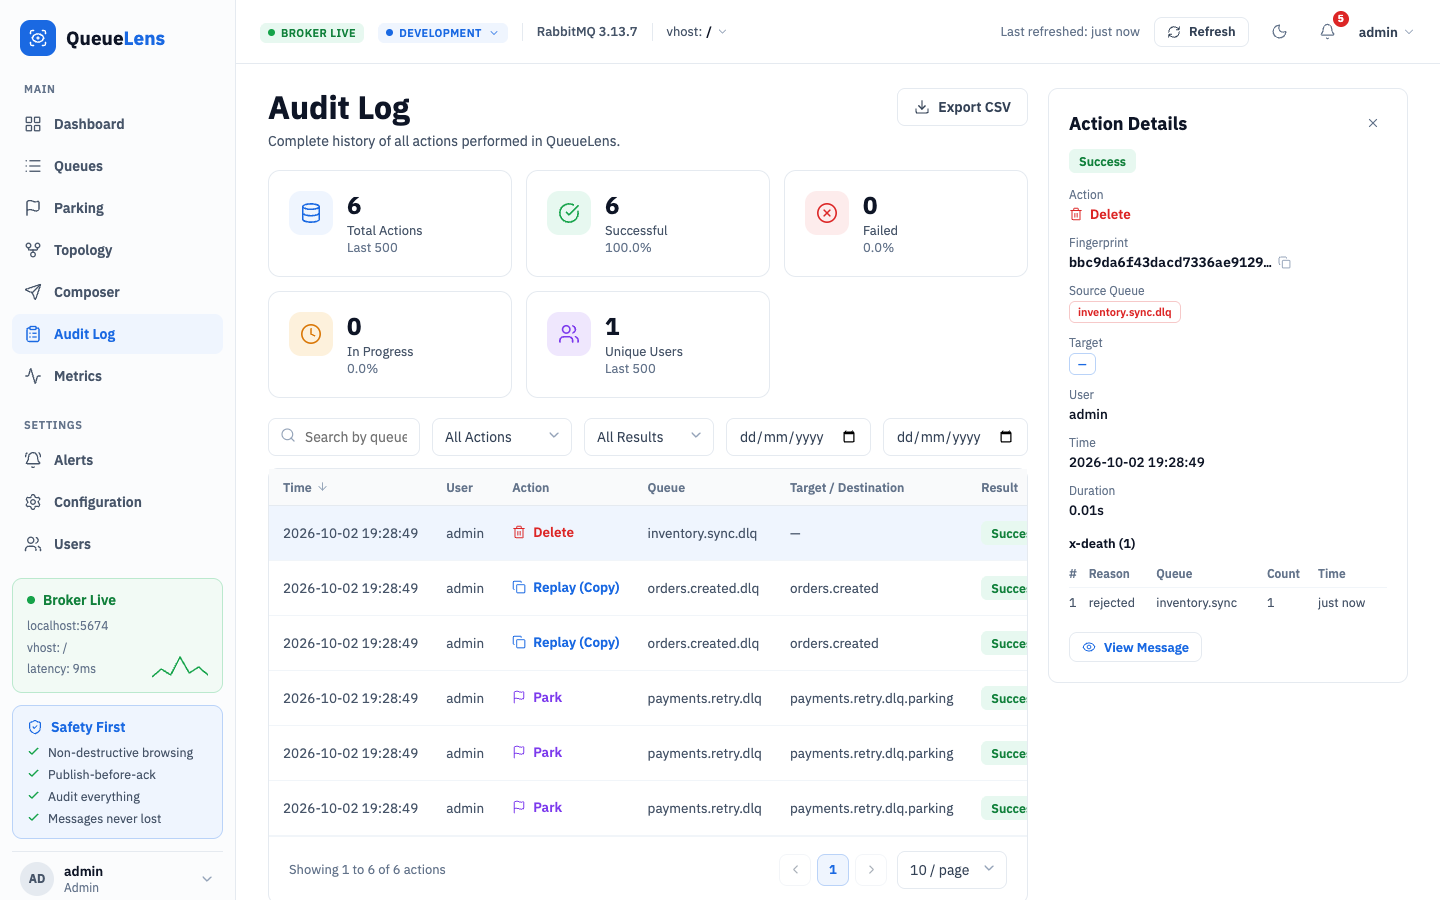
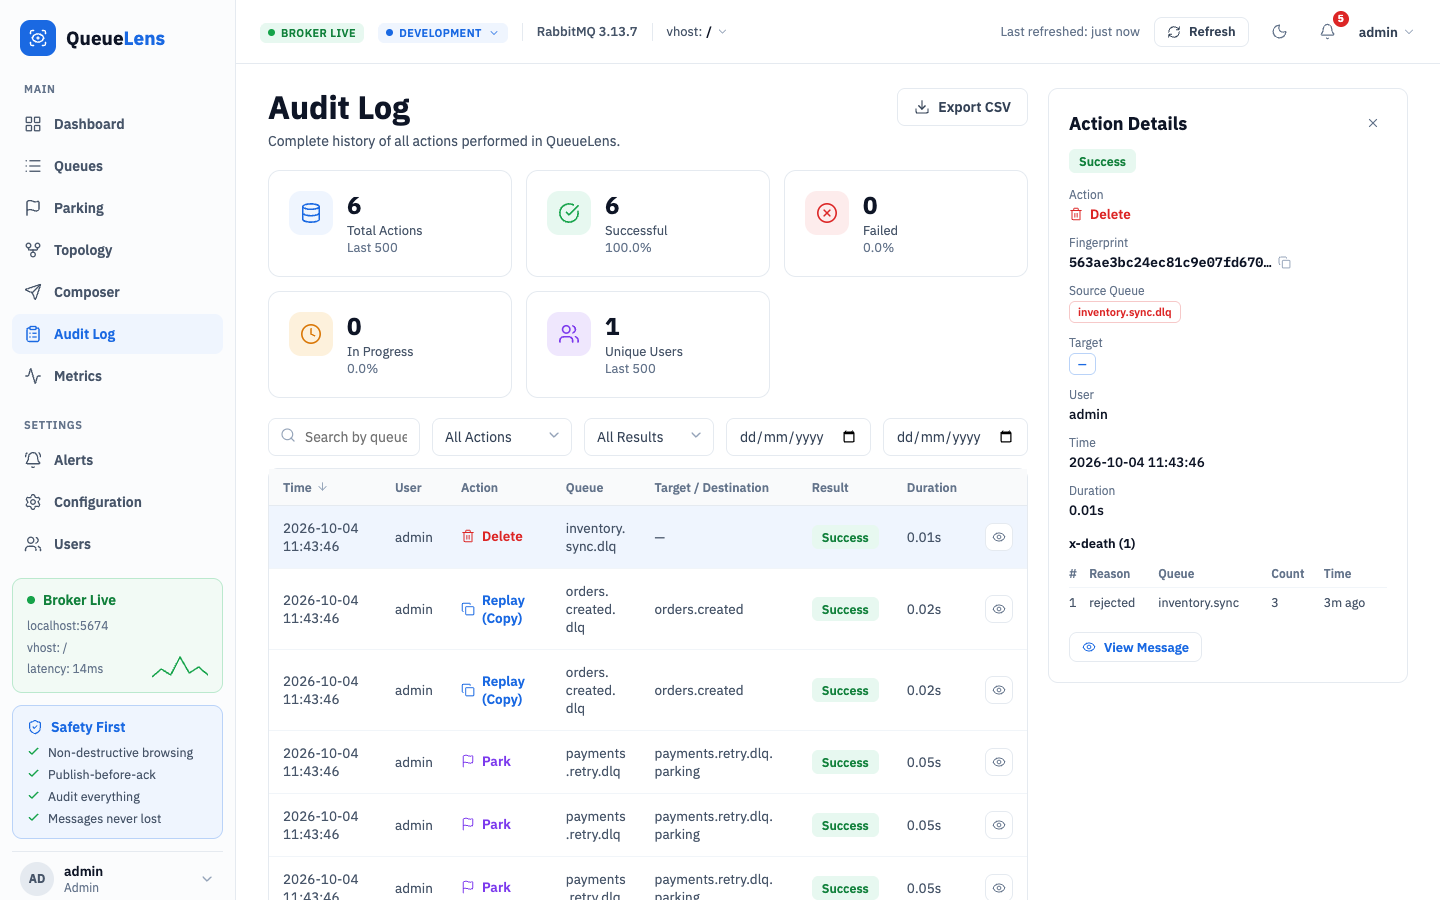
fix: the Audit Log names every action, and invites and password changes are audited (#39)
data.js mapped any audit action it didn't recognise to "replay_move", so
user removals, role changes, exports and environment changes all showed as
"Replay (Move)" in the Audit Log and on the Dashboard. Each action now has its
own label and icon (an unknown one shows its own name), the target column
says which account or environment changed, and the action filter covers
Publish, Export, Users and Environments.

Inviting a user and changing your own password wrote no audit row; they now
write invite_user (with the role) and change_password, never a password.

The details panel showed "Published First" for actions that move no message
and "View Message" without a message; both now appear only when they apply.
The Audit Log table overflowed its card by ~130px: times, actions and queue
names wrap, queue names at their dots. Screenshots regenerated.

diff --git a/app/web/static/ds/ui_kits/queuelens/AuditLog.jsx b/app/web/static/ds/ui_kits/queuelens/AuditLog.jsx
@@ -1,10 +1,19 @@
 // Audit Log screen with Action Details panel — fully wired to live audit data.
 (function () {
   const { Icon, Badge, StatusPill, StatCard, Button, IconButton, DataTable, Select, SearchInput, Input, Pagination, KeyValue, CodeBlock } = window.__NS;
-  const { PageHeader, Card, XDeathTable, ACTION_META, RESULT_TONE } = window.QL;
+  const { PageHeader, Card, XDeathTable, actionMeta, RESULT_TONE } = window.QL;
   const D = window.QL.data;
 
-  const ACTION_FILTER = { 'Replay (Move)': 'replay_move', 'Replay (Copy)': 'replay_copy', Park: 'park', Delete: 'delete' };
+  const ACTION_FILTER = {
+    'Replay (Move)': ['replay_move'], 'Replay (Copy)': ['replay_copy'], Park: ['park'], Delete: ['delete'],
+    Publish: ['publish'], Export: ['export_snapshot'],
+    Users: ['invite_user', 'update_user', 'delete_user', 'change_password'],
+    Environments: ['add_environment', 'remove_environment', 'switch_environment'],
+  };
+  // replay / park publish the message before acking it; nothing else moves a message
+  const MOVES_MESSAGES = ['replay_move', 'replay_copy', 'park', 'publish'];
+  // queue names wrap at their dots ("orders." / "created.dlq"), not mid-word
+  const atDots = (s) => String(s).split('.').flatMap((part, i, all) => (i < all.length - 1 ? [part + '.', <wbr key={i} />] : [part]));
   const pct = (n, total) => (total ? ((n / total) * 100).toFixed(1) + '%' : '—');
 
   function AuditLog({ nav }) {
@@ -21,7 +30,7 @@
 
     const rows = React.useMemo(() => audit.filter((r) => {
       if (q && !(r.queue + ' ' + r.user + ' ' + r.action + ' ' + r.target).toLowerCase().includes(q.toLowerCase())) return false;
-      if (actionF !== 'All Actions' && r.action !== ACTION_FILTER[actionF]) return false;
+      if (actionF !== 'All Actions' && !ACTION_FILTER[actionF].includes(r.action)) return false;
       if (resultF !== 'All Results' && r.result !== resultF) return false;
       if (from && r.time.slice(0, 10) < from) return false;
       if (to && r.time.slice(0, 10) > to) return false;
@@ -66,7 +75,7 @@
 
           <div style={{ display: 'flex', gap: 12, marginBottom: 12 }}>
             <div style={{ flex: 1 }}><SearchInput placeholder="Search by queue, user, action…" value={q} onChange={(v) => { setQ(v); setPage(1); }} /></div>
-            <div style={{ width: 140 }}><Select value={actionF} onChange={(v) => { setActionF(v); setPage(1); }} options={['All Actions', 'Replay (Move)', 'Replay (Copy)', 'Park', 'Delete']} /></div>
+            <div style={{ width: 140 }}><Select value={actionF} onChange={(v) => { setActionF(v); setPage(1); }} options={['All Actions', ...Object.keys(ACTION_FILTER)]} /></div>
             <div style={{ width: 130 }}><Select value={resultF} onChange={(v) => { setResultF(v); setPage(1); }} options={['All Results', 'Success', 'Failed']} /></div>
             <div style={{ width: 145 }}><Input type="date" value={from} onChange={(v) => { setFrom(v); setPage(1); }} /></div>
             <div style={{ width: 145 }}><Input type="date" value={to} onChange={(v) => { setTo(v); setPage(1); }} /></div>
@@ -80,14 +89,15 @@
           <Card pad={false}>
             <DataTable rowKey="key" sortKey="time" onRowClick={setSel} selectedKey={sel && sel.key}
               columns={[
-                { key: 'time', label: 'Time' },
+                // date over time, and long names wrap: the table has to fit its card
+                { key: 'time', label: 'Time', render: (r) => <span style={{ whiteSpace: 'normal', display: 'inline-block', width: 84 }}>{r.time}</span> },
                 { key: 'user', label: 'User' },
-                { key: 'action', label: 'Action', render: (r) => { const m = ACTION_META[r.action]; return <span style={{ display: 'inline-flex', alignItems: 'center', gap: 7, color: m.color, fontWeight: 600 }}><Icon name={m.icon} size={14} />{m.label}</span>; } },
-                { key: 'queue', label: 'Queue' },
-                { key: 'target', label: 'Target / Destination', render: (r) => <span style={{ whiteSpace: 'normal', display: 'inline-block', maxWidth: 200 }}>{r.target}</span> },
+                { key: 'action', label: 'Action', render: (r) => { const m = actionMeta(r.action); return <span style={{ display: 'inline-flex', alignItems: 'center', gap: 7, color: m.color, fontWeight: 600, whiteSpace: 'normal' }}><Icon name={m.icon} size={14} />{m.label}</span>; } },
+                { key: 'queue', label: 'Queue', render: (r) => <span style={{ whiteSpace: 'normal', overflowWrap: 'anywhere', display: 'inline-block', maxWidth: 150 }}>{atDots(r.queue)}</span> },
+                { key: 'target', label: 'Target / Destination', render: (r) => <span style={{ whiteSpace: 'normal', overflowWrap: 'anywhere', display: 'inline-block', maxWidth: 170 }}>{atDots(r.target)}</span> },
                 { key: 'result', label: 'Result', render: (r) => <StatusPill tone={RESULT_TONE[r.result]}>{r.result}</StatusPill> },
                 { key: 'duration', label: 'Duration' },
-                { key: 'd', label: 'Details', align: 'right', render: (r) => <IconButton icon="eye" size={28} onClick={() => setSel(r)} /> },
+                { key: 'd', label: '', align: 'right', render: (r) => <IconButton icon="eye" size={28} onClick={() => setSel(r)} /> },
               ]}
               rows={pageRows} />
             <div style={{ display: 'flex', alignItems: 'center', padding: '14px 20px', borderTop: '1px solid var(--slate-100)' }}>
@@ -114,14 +124,14 @@
             <StatusPill tone={RESULT_TONE[sel.result]}>{sel.result}</StatusPill>
             <div style={{ marginTop: 14 }}>
               <KeyValue gap={12} items={[
-                { label: 'Action', value: (() => { const m = ACTION_META[sel.action]; return <span style={{ display: 'inline-flex', alignItems: 'center', gap: 7, color: m.color, fontWeight: 600 }}><Icon name={m.icon} size={14} />{m.label}</span>; })() },
+                { label: 'Action', value: (() => { const m = actionMeta(sel.action); return <span style={{ display: 'inline-flex', alignItems: 'center', gap: 7, color: m.color, fontWeight: 600 }}><Icon name={m.icon} size={14} />{m.label}</span>; })() },
                 sel.fingerprint ? { label: 'Fingerprint', value: sel.fingerprint.slice(0, 24) + '…', mono: true, copy: true } : null,
                 { label: 'Source Queue', value: <Badge tone="danger" uppercase={false}>{sel.queue}</Badge> },
                 { label: 'Target', value: <Badge tone="info" uppercase={false}>{sel.target}</Badge> },
                 { label: 'User', value: sel.user },
                 { label: 'Time', value: sel.time },
                 { label: 'Duration', value: sel.duration },
-                sel.action !== 'delete' ? { label: 'Published First', value: 'Yes (publish-before-ack)' } : null,
+                MOVES_MESSAGES.includes(sel.action) ? { label: 'Published First', value: 'Yes (publish-before-ack)' } : null,
               ].filter(Boolean)} />
             </div>
             {sel.error && (
@@ -142,7 +152,7 @@
                 <XDeathTable rows={sel.xdeathList} />
               </div>
             )}
-            <Button variant="secondary" icon="eye" size="sm" style={{ marginTop: 16, color: 'var(--text-link)' }} onClick={() => nav('messages', { queue: sel.queue !== '\u2014' ? sel.queue : undefined, fingerprint: sel.fingerprint || undefined })}>View Message</Button>
+            {sel.fingerprint && <Button variant="secondary" icon="eye" size="sm" style={{ marginTop: 16, color: 'var(--text-link)' }} onClick={() => nav('messages', { queue: sel.queue !== '\u2014' ? sel.queue : undefined, fingerprint: sel.fingerprint })}>View Message</Button>}
           </aside>
         )}
       </div>

diff --git a/app/web/static/ds/ui_kits/queuelens/Dashboard.jsx b/app/web/static/ds/ui_kits/queuelens/Dashboard.jsx
@@ -18,7 +18,17 @@
     park: { icon: 'flag', color: 'var(--purple-600)', label: 'Park' },
     delete: { icon: 'trash-2', color: 'var(--red-600)', label: 'Delete' },
     publish: { icon: 'send', color: 'var(--green-700)', label: 'Publish (Test)' },
+    invite_user: { icon: 'user-plus', color: 'var(--slate-700)', label: 'User Invited' },
+    update_user: { icon: 'user-cog', color: 'var(--slate-700)', label: 'User Changed' },
+    delete_user: { icon: 'user-x', color: 'var(--red-600)', label: 'User Removed' },
+    change_password: { icon: 'key-round', color: 'var(--slate-700)', label: 'Password Changed' },
+    export_snapshot: { icon: 'download', color: 'var(--slate-700)', label: 'Export' },
+    add_environment: { icon: 'server', color: 'var(--slate-700)', label: 'Environment Added' },
+    remove_environment: { icon: 'server', color: 'var(--red-600)', label: 'Environment Removed' },
+    switch_environment: { icon: 'server', color: 'var(--slate-700)', label: 'Environment Switch' },
   };
+  // an action this console doesn't know yet shows as itself, never as some other action
+  const actionMeta = (action) => ACTION_META[action] || { icon: 'activity', color: 'var(--slate-600)', label: action };
   const RESULT_TONE = { Success: 'success', Started: 'warning', Failed: 'danger' };
   const RESULT_ICON = { Success: { n: 'check-circle', c: 'var(--green-600)' }, Started: { n: 'clock', c: 'var(--amber-600)' }, Failed: { n: 'x-circle', c: 'var(--red-600)' } };
 
@@ -82,7 +92,7 @@
               { key: 'st', label: '', width: 30, render: (r) => { const ic = RESULT_ICON[r.result]; return <Icon name={ic.n} size={17} color={ic.c} />; } },
               { key: 'time', label: 'Time' },
               { key: 'user', label: 'User', render: () => 'admin' },
-              { key: 'action', label: 'Action', render: (r) => { const m = ACTION_META[r.action]; return <span style={{ display: 'inline-flex', alignItems: 'center', gap: 7, color: m.color, fontWeight: 600 }}><Icon name={m.icon} size={14} />{m.label}</span>; } },
+              { key: 'action', label: 'Action', render: (r) => { const m = actionMeta(r.action); return <span style={{ display: 'inline-flex', alignItems: 'center', gap: 7, color: m.color, fontWeight: 600 }}><Icon name={m.icon} size={14} />{m.label}</span>; } },
               { key: 'queue', label: 'Queue', render: (r) => <a href="#" onClick={(e) => e.preventDefault()} style={{ color: 'var(--text-link)', fontWeight: 600, textDecoration: 'none' }}>{r.queue}</a> },
               { key: 'target', label: 'Target' },
               { key: 'result', label: 'Result', render: (r) => <StatusPill tone={RESULT_TONE[r.result]}>{r.result}</StatusPill> },
@@ -99,5 +109,5 @@
   }
 
   window.QL.screens.Dashboard = Dashboard;
-  Object.assign(window.QL, { STATUS, TYPE_TONE, ACTION_META, RESULT_TONE, RESULT_ICON });
+  Object.assign(window.QL, { STATUS, TYPE_TONE, ACTION_META, actionMeta, RESULT_TONE, RESULT_ICON });
 })();

diff --git a/app/web/static/ds/ui_kits/queuelens/data.js b/app/web/static/ds/ui_kits/queuelens/data.js
@@ -52,6 +52,15 @@ window.QL.screens = window.QL.screens || {};
   }
 
   function target(e) {
+    var m = e.metadata || {};
+    if (m.user) {  // account changes: whose, and to what
+      var change = [m.new_role, m.active === false ? 'deactivated' : m.active === true ? 'reactivated' : null]
+        .filter(Boolean).join(', ');
+      return m.user + (change ? ' \u2192 ' + change : '');
+    }
+    if (e.action === 'export_snapshot') return (m.messages != null ? m.messages + ' messages' : 'snapshot') + ' (' + (m.format || '') + ')';
+    // add / remove name the environment changed; a switch names the one checked
+    if (/_environment$/.test(e.action || '')) return m.name || ((m.environment || '\u2014') + (m.vhost ? ' / ' + m.vhost : ''));
     return e.target_queue || (e.target_exchange
       ? e.target_exchange + ' / ' + (e.target_routing_key || '') : '—');
   }
@@ -87,7 +96,9 @@ window.QL.screens = window.QL.screens || {};
     if (action === 'replay') {
       return (e.metadata && e.metadata.mode) === 'copy' ? 'replay_copy' : 'replay_move';
     }
-    return action === 'park' || action === 'delete' ? action : 'replay_move';
+    // anything else (account changes, exports, environments) keeps its own name: the
+    // audit trail must never show one action as another
+    return action;
   }
 
   var queuesRaw = (getJson('/api/queues') || {}).queues || [];

diff --git a/app/api/routes/platform.py b/app/api/routes/platform.py
@@ -267,6 +267,9 @@ async def invite_user(
     )
     if not created:
         raise HTTPException(status_code=409, detail="User already exists")
+    await _audit_user_change(
+        request, user, "invite_user", {"user": body.username, "new_role": body.role}
+    )
     email_result: dict[str, Any] | None = None
     if body.email:
         channels = await request.app.state.settings_store.get("channels", {}) or {}
@@ -313,14 +316,15 @@ def _changeable(request: Request, admin: CurrentUser, username: str) -> None:
 
 
 async def _audit_user_change(
-    request: Request, admin: CurrentUser, action: str, metadata: dict[str, Any]
+    request: Request, actor: CurrentUser, action: str, metadata: dict[str, Any]
 ) -> None:
+    """Account changes are audited like broker actions: who changed which account."""
     from datetime import UTC, datetime
 
     from app.domain.models import AuditEntry
 
     await request.app.state.audit_repository.record(AuditEntry(
-        username=admin.username, action=action, timestamp=datetime.now(UTC),
+        username=actor.username, action=action, timestamp=datetime.now(UTC),
         result="success", metadata=metadata,
     ))
 
@@ -386,6 +390,7 @@ async def change_my_password(
     )
     if not changed:
         raise HTTPException(status_code=403, detail="Current password is incorrect")
+    await _audit_user_change(request, user, "change_password", {"user": user.username})
     return {"changed": True}
 
 

diff --git a/tests/test_user_management.py b/tests/test_user_management.py
@@ -128,3 +128,18 @@ async def test_a_deactivation_applies_on_every_replica_at_once(tmp_path) -> None
     finally:
         for replica in (a, b):
             await replica.state.database.close()
+
+
+async def test_invites_and_password_changes_are_audited(app) -> None:
+    invited = (await _call(app, "POST", "/api/users/invite", ADMIN,
+                           {"username": "rita", "role": "Viewer"})).json()
+    new = cred() + cred()  # 10+ characters
+    changed = await _call(app, "POST", "/api/users/me/password", ("rita", invited["password"]),
+                          {"current_password": invited["password"], "new_password": new})
+    assert changed.status_code == 200
+    rows = {row["action"]: row for row in await app.state.audit_repository.list()}
+    assert (rows["invite_user"]["username"], rows["invite_user"]["metadata"]["user"],
+            rows["invite_user"]["metadata"]["new_role"]) == ("admin", "rita", "Viewer")
+    assert (rows["change_password"]["username"],
+            rows["change_password"]["metadata"]["user"]) == ("rita", "rita")
+    assert new not in str(rows) and invited["password"] not in str(rows)  # never a password

diff --git a/CHANGELOG.md b/CHANGELOG.md
@@ -1,5 +1,21 @@
 # Changelog
 
+## Unreleased
+
+### Fixed
+- **The Audit Log showed every action it didn't know as "Replay (Move)".** Removing a
+  user, changing a role, exporting a snapshot and adding, removing or switching an
+  environment all read as message replays. Each action now has its own label and icon,
+  an unknown one shows its own name, and the action filter has Publish, Export, Users and
+  Environments. The target column says which account or environment changed.
+- **Inviting a user and changing your password weren't audited.** They now write
+  `invite_user` (with the role) and `change_password` rows, never the password.
+- **The Audit Log's details panel claimed "Published First"** for actions that move no
+  message, and offered "View Message" without one.
+- **The Audit Log table overflowed its card** by about 130 px; times, actions and queue
+  names now wrap, queue names at their dots.
+- The README and landing-page screenshots are fresh from this release.
+
 ## v0.16.0 — 2026-10-04
 
 ### Added
